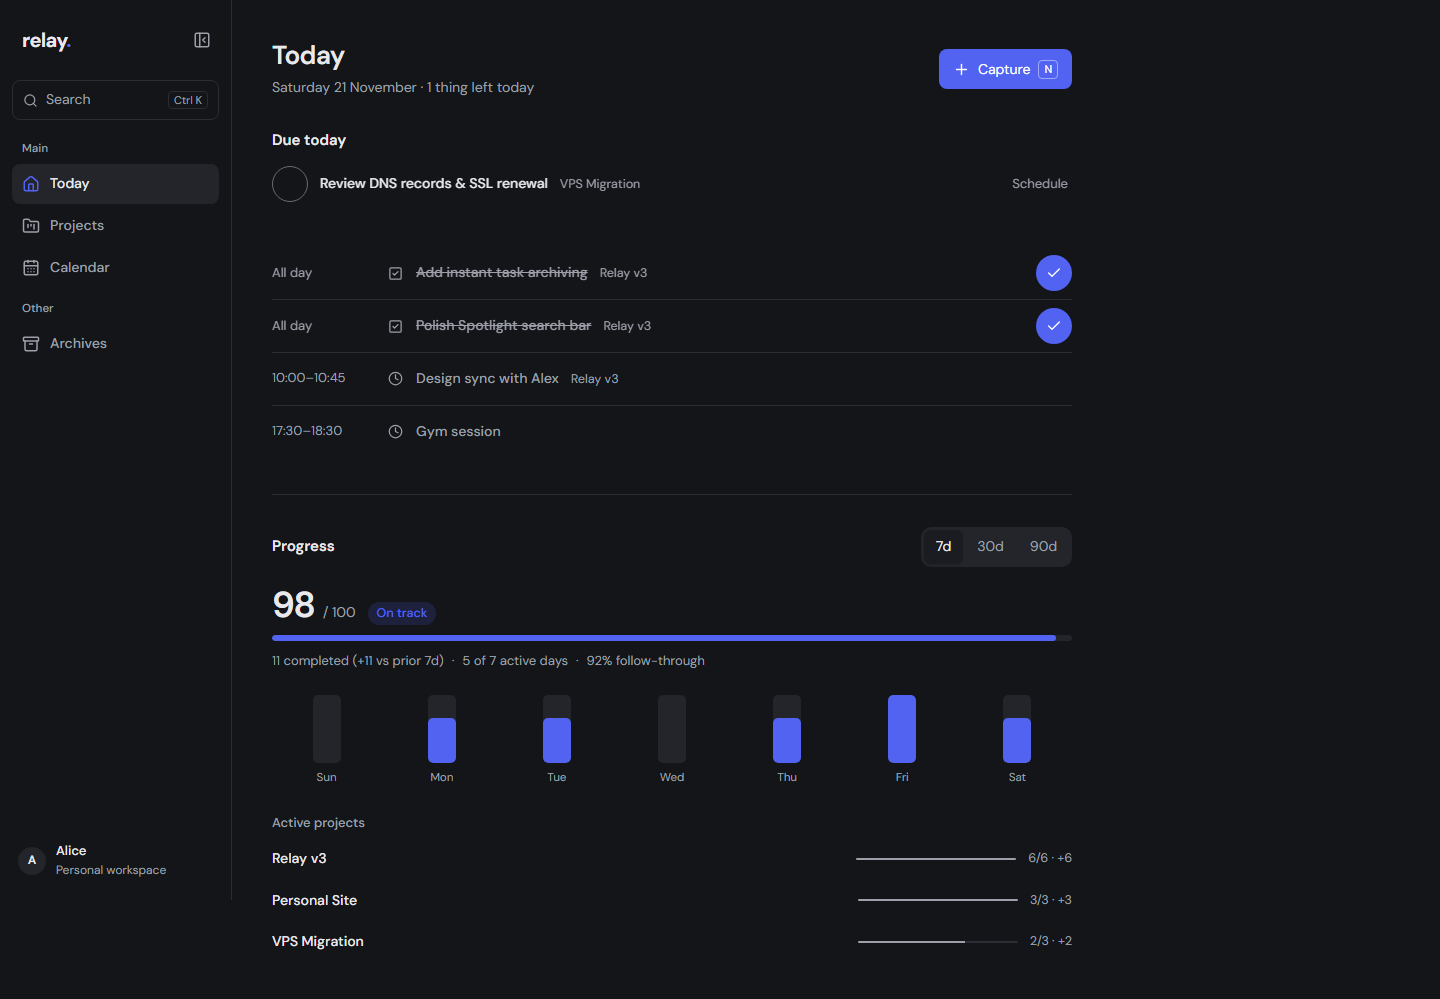
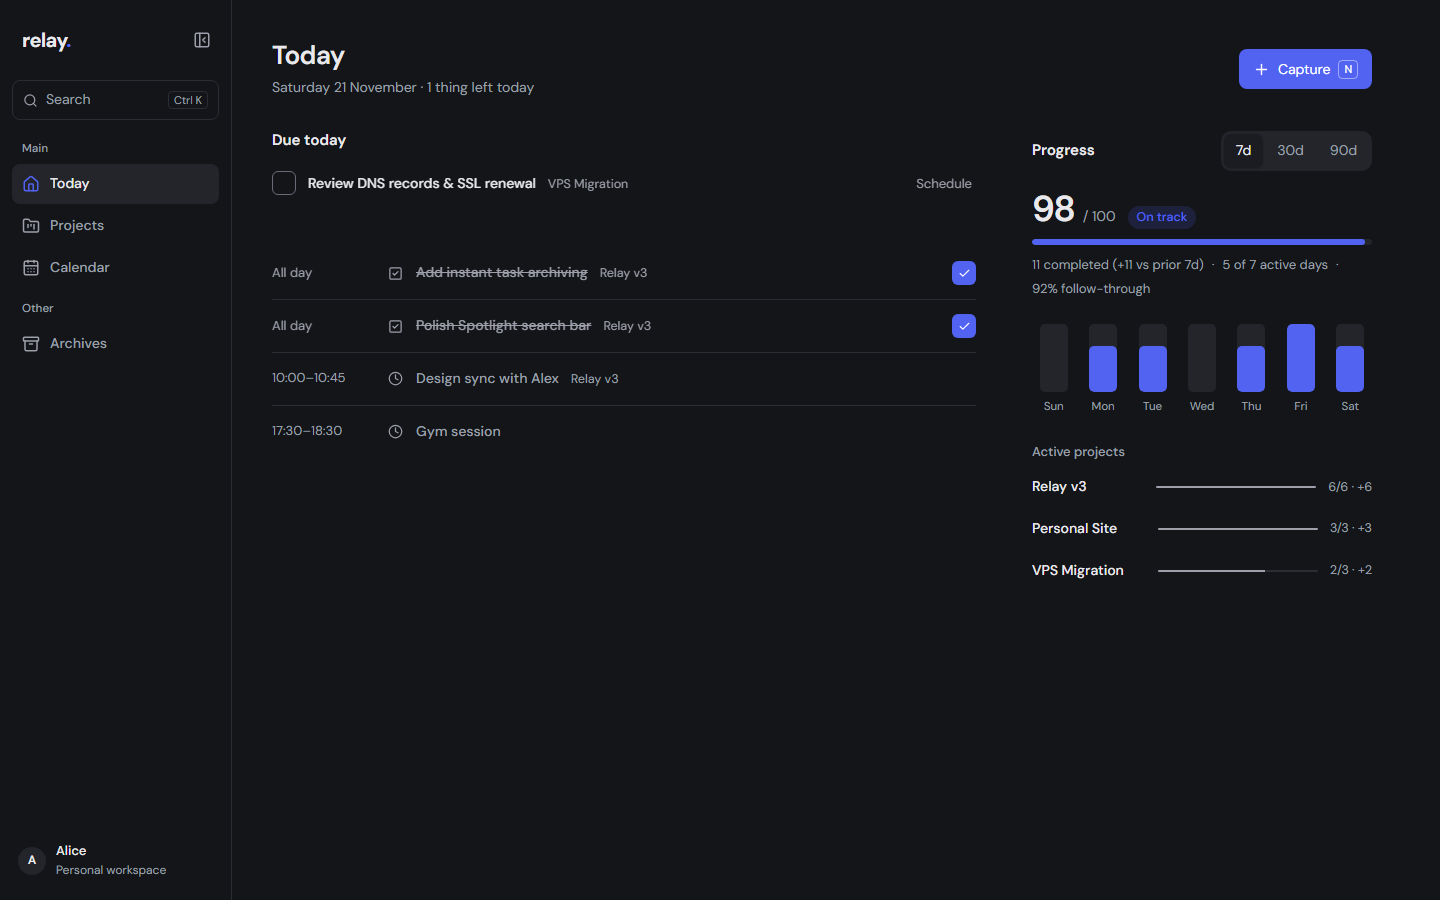
feat(today): 2-column desktop layout with Progress on right and compact rounded-square checkmarks

diff --git a/src/app/globals.css b/src/app/globals.css
@@ -126,7 +126,7 @@ progress::-moz-progress-bar { background: var(--primary); }
 .card-heading h2 svg { color: var(--muted-foreground); flex-shrink: 0; }
 .task-title { color: var(--foreground); font-weight: 500; overflow-wrap: anywhere; }
 .task-title:hover { color: var(--primary); }
-.complete-task { width: 36px; min-width: 36px; padding: 8px; }
+.complete-task { width: 24px; min-width: 24px; height: 24px; min-height: 24px; padding: 0; border-radius: 6px; }
 
 /* Shell */
 .workspace-shell { --sidebar-width: 232px; }
@@ -506,10 +506,17 @@ progress::-moz-progress-bar { background: var(--primary); }
 .swipe-underlay-right[data-ready=true] { background: var(--primary); color: var(--primary-foreground); }
 .swipe-underlay-left[data-ready=true] { background: var(--task-deadline); color: #FFFFFF; }
 @media (max-width: 760px) { .capture-tab-hint { display: none; } }
-.complete-mark { width: 36px; min-height: 36px; display: grid; place-items: center; color: var(--primary-foreground); border-radius: 50%; background: var(--primary); }
+.complete-mark { width: 24px; height: 24px; min-height: 24px; display: grid; place-items: center; color: var(--primary-foreground); border-radius: 6px; background: var(--primary); }
 
-/* Today: one timeline of the day */
-.today-page { max-width: 880px; }
+/* Today: one timeline of the day + Progress column on desktop */
+.today-page { max-width: 1180px; }
+.today-layout { display: grid; grid-template-columns: minmax(0, 1fr) 340px; gap: 36px 56px; align-items: start; }
+.today-primary, .today-secondary { min-width: 0; }
+.today-secondary .progress-section { padding-top: 0; border-top: 0; }
+@media (max-width: 980px) {
+  .today-layout { grid-template-columns: minmax(0, 1fr); gap: 36px; }
+  .today-secondary .progress-section { padding-top: 32px; border-top: 1px solid var(--border); }
+}
 .today-header { display: flex; flex-wrap: wrap; gap: 16px; justify-content: space-between; align-items: center; margin-bottom: 32px; }
 .today-summary { margin-top: 6px; color: var(--muted-foreground); }
 .today-section + .today-section, .today-section + .today-empty, .today-section + .day-clear { margin-top: 36px; }
@@ -521,19 +528,19 @@ progress::-moz-progress-bar { background: var(--primary); }
 .today-row-body { min-width: 0; display: flex; flex-wrap: wrap; align-items: baseline; gap: 2px 12px; overflow-wrap: anywhere; }
 .archive-row-body { min-width: 0; display: flex; flex-wrap: wrap; align-items: center; gap: 6px 10px; overflow-wrap: anywhere; }
 .today-meta { font-size: .78125rem; color: var(--muted-foreground); }
-.today-row .complete-task { height: 36px; min-height: 36px; border-radius: 50%; border-color: var(--control-border); color: transparent; }
+.today-row .complete-task { width: 24px; min-width: 24px; height: 24px; min-height: 24px; border-radius: 6px; border-color: var(--control-border); color: transparent; padding: 0; }
 .today-row .complete-task:hover, .today-row .complete-task:focus-visible { color: var(--primary); border-color: var(--primary); }
 .today-row .error-message { grid-column: 1 / -1; }
 .today-quiet-action { font-size: .8125rem; color: var(--muted-foreground); padding: 10px 4px; }
 .today-quiet-action:hover { color: var(--primary); }
 .today-empty { color: var(--muted-foreground); display: flex; flex-wrap: wrap; align-items: center; gap: 16px; }
-.timeline-row, .timeline-row:has(.complete-task) { grid-template-columns: 104px 16px minmax(0, 1fr) 36px; }
+.timeline-row, .timeline-row:has(.complete-task) { grid-template-columns: 104px 16px minmax(0, 1fr) 28px; }
 .timeline-time { font-size: .8125rem; color: var(--muted-foreground); font-variant-numeric: tabular-nums; white-space: nowrap; }
 .timeline-icon { color: var(--muted-foreground); }
 .timeline-row > :last-child:not(.today-row-body) { justify-self: end; }
 .timeline-row.is-past .task-title { color: var(--muted-foreground); }
 .timeline-row.is-done .task-title { color: var(--muted-foreground); text-decoration: line-through; }
-.timeline-row .complete-mark { width: 36px; min-height: 36px; }
+.timeline-row .complete-mark { width: 24px; height: 24px; min-height: 24px; }
 .now-line { --time-col: 104px; position: relative; height: 0; z-index: 1; }
 .now-line-label { position: absolute; left: 0; top: 0; transform: translateY(-50%); padding-right: 6px; background: var(--background); font-size: .75rem; font-weight: 600; line-height: 1; color: var(--primary); font-variant-numeric: tabular-nums; }
 .now-line-rule { position: absolute; left: calc(var(--time-col) + 12px); right: 0; top: -1px; height: 2px; border-radius: 1px; background: var(--primary); }

diff --git a/src/app/(workspace)/page.tsx b/src/app/(workspace)/page.tsx
@@ -40,15 +40,21 @@ export default async function TodayPage({ searchParams }: {
       <div><h1>Today</h1><p className="today-summary"><span>{dateLabel}</span>{day.dayState === "active" && <> · <span>{summarySentence(day.summary, day.dayState)}</span></>}</p></div>
       {day.dayState !== "empty" && <CaptureButton />}
     </header>
-    {day.overdue.length > 0 && <CatchUp tasks={day.overdue} today={day.today} tomorrow={tomorrow.toPlainDate().toString()} timezone={timezone} />}
-    {day.dueUnscheduled.length > 0 && <section className="today-section" aria-labelledby="due-today-heading">
-      <h2 id="due-today-heading">Due today</h2>
-      <TodayDueList tasks={day.dueUnscheduled} projectNames={projectNames} timezone={timezone} />
-    </section>}
-    {day.dayState === "empty" ? <div className="today-empty"><p>Nothing planned today</p><CaptureButton /></div>
-      : day.dayState === "clear" ? <DayClear day={day.today} />
-      : <TodayTimeline items={day.items} timezone={timezone} dayStart={start.epochMilliseconds} dayEnd={tomorrow.epochMilliseconds} />}
-    <TodayProgress tasks={allTasks} projects={projects} timezone={timezone} now={nowIso} />
+    <div className="today-layout">
+      <div className="today-primary">
+        {day.overdue.length > 0 && <CatchUp tasks={day.overdue} today={day.today} tomorrow={tomorrow.toPlainDate().toString()} timezone={timezone} />}
+        {day.dueUnscheduled.length > 0 && <section className="today-section" aria-labelledby="due-today-heading">
+          <h2 id="due-today-heading">Due today</h2>
+          <TodayDueList tasks={day.dueUnscheduled} projectNames={projectNames} timezone={timezone} />
+        </section>}
+        {day.dayState === "empty" ? <div className="today-empty"><p>Nothing planned today</p><CaptureButton /></div>
+          : day.dayState === "clear" ? <DayClear day={day.today} />
+          : <TodayTimeline items={day.items} timezone={timezone} dayStart={start.epochMilliseconds} dayEnd={tomorrow.epochMilliseconds} />}
+      </div>
+      <aside className="today-secondary" aria-label="Progress">
+        <TodayProgress tasks={allTasks} projects={projects} timezone={timezone} now={nowIso} />
+      </aside>
+    </div>
     {query.event ? <EventSelection key={query.event} db={db} ownerId={ownerId} id={query.event} projects={allProjects} tasks={allTasks} timezone={timezone} />
       : <TaskSelection key={query.focus ?? query.task} db={db} ownerId={ownerId} id={query.focus ?? query.task} focus={Boolean(query.focus)} projects={allProjects} />}
   </div>;

diff --git a/src/components/task-complete.tsx b/src/components/task-complete.tsx
@@ -20,5 +20,5 @@ export function TaskComplete({ task }: { task: Task }) {
       notifyMutation(response, () => router.refresh()); router.refresh();
     } catch (failure) { setError(failure instanceof Error ? failure.message : "Could not complete task. Try again."); }
     finally { setPending(false); }
-  }}><Check size={18} aria-hidden="true" /></Button>{error && <p role="alert" className="error-message text-sm">{error}</p>}</div>;
+  }}><Check size={13} aria-hidden="true" /></Button>{error && <p role="alert" className="error-message text-sm">{error}</p>}</div>;
 }

diff --git a/src/components/today-timeline.tsx b/src/components/today-timeline.tsx
@@ -91,7 +91,7 @@ export function TodayTimeline({
               {block &&
                 (item.done ? (
                   <span className="complete-mark" role="img" aria-label="Completed">
-                    <Check size={16} aria-hidden="true" />
+                    <Check size={13} aria-hidden="true" />
                   </span>
                 ) : (
                   <TaskComplete task={item.task!} />
